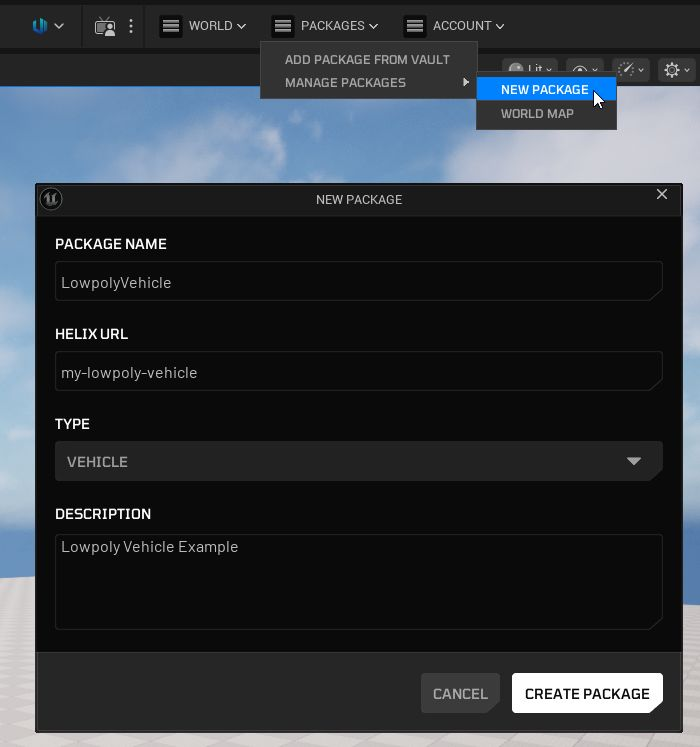
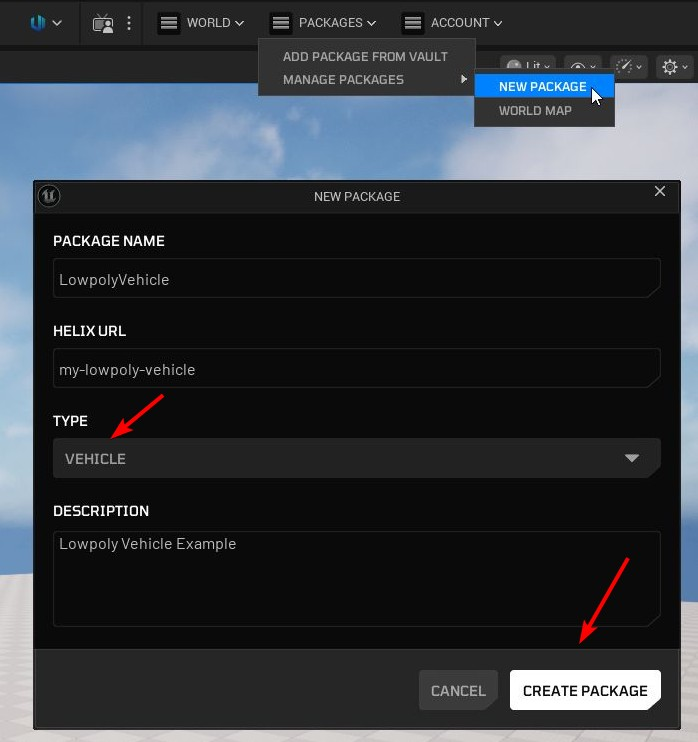
📝 docs(migration57): clarify steps, fix numbering, add troubleshooting note, update screenshots

diff --git a/docs/tutorials/migration57.md b/docs/tutorials/migration57.md
@@ -1,55 +1,77 @@
 # Unreal Engine 5.7 migration guide for Creator Kit users
 
->💡 This guide helps creators migrate their assets/projects from the now-deprecated **Creator Kit** into the new **HELIX Studio** (UE 5.7).
+>💡 This guide helps creators migrate their assets/projects from the now-deprecated **Creator Kit** (UE 5.5) into the new **HELIX Studio** (UE 5.7).
 
 Legacy packages created in the **Creator Kit** and published via **Creator Hub** are not compatible with **HELIX Game Client** builds that use Unreal Engine 5.7. Those packages must be converted to **HELIX Studio** projects and re-published to the Vault.
 
 Suggested steps to achieve this, using the default **Creator Kit** packages as an example:
 
-1. Create a **Blank** **HELIX Studio** project:
+1. Open HELIX Studio and create a **Blank** **HELIX Studio** project:
     
     ![image.jpg](MigrationImages/1.jpg)
-    
-2. Identify the package folders to migrate (**Content** subfolders and/or **Content Plugins**):
+
+2. Open Creator Kit using Unreal Engine 5.5 and identify the package folders to migrate (**Content** subfolders and/or **Content Plugins**):
     
     ![image.jpg](MigrationImages/2.jpg)
-    
-3. Open both the **Creator Kit** and **HELIX Studio** project folders in Windows Explorer, then copy the package folders to their corresponding places (**Content** Subfolders to Content, **Content Plugins** to **Plugins**):
+
+    ??? note "HELP! I'm struggling to find the right folders!"
+        If you are struggling to locate the folders, click on "Open Helix Packaging" menu at the top, access the package you need to check and click "Browse". This will show you the folder it's linked to.
+
+3. Open both the **Creator Kit** and **HELIX Studio** project folders in Windows Explorer, then copy the package folders to their corresponding places (**Content** Subfolders to **Content**, **Content Plugins** to **Plugins**):
     
     ![image.jpg](MigrationImages/3.jpg)
     
     ![image.jpg](MigrationImages/4.jpg)
     
 4. Restart **HELIX Studio**
-5. For Map packages:
-    - Move all assets except the **METADATA** folder and any **DAAL_*** data assets into the **WorldMap** Content Plugin:
+                 
+5. The next step is different depending on the package
+
+    1. For Map packages:
+
+        - Move all assets except the **METADATA** folder and any **DAAL_*** data assets into the **WorldMap** Content Plugin:
+            
+            ![image.jpg](MigrationImages/5.jpg)
         
-        ![image.jpg](MigrationImages/5.jpg)
+        <br>
+            
+        - If references get broken during migration, you will need to repair them manually. After that, click **Update Redirectors** and then Delete the remaining folder:
+            
+            ![image.jpg](MigrationImages/6.jpg)
+         
+        <br>
+           
+        - Open the **World Map** package properties and set your Level asset as the **Main Asset**:
+            
+            ![image.jpg](MigrationImages/7.jpg)
+         
+        <br>
+           
+        - Close properties, then **leave** the World and join it again:
+            
+            ![image.jpg](MigrationImages/8.jpg)
+         
+        <br>
+           
+        - The new level will be opened; you may now delete the default level asset (**L_WorldMap**)
+
+    2. For other packages:
+
+        - Create a new package of the corresponding package type:
+            ![image.jpg](MigrationImages/9.jpg)
         
-    - Verify and repair broken references, then **Update Redirectors** and **Delete** the remaining folder:
+        <br>
+
+        - Move all assets except the **METADATA** folder and any **DAAL_*** data assets into the created **Content Plugin**:
+
+            ![image.jpg](MigrationImages/10.jpg)
         
-        ![image.jpg](MigrationImages/6.jpg)
-        
-    - Open the **World Map** package properties and set your Level asset as the **Main Asset**:
-        
-        ![image.jpg](MigrationImages/7.jpg)
-        
-    - Save properties, then **Leave** the World and Join it again:
-        
-        ![image.jpg](MigrationImages/8.jpg)
-        
-    - The new level will be opened; you may now delete the default level asset (**L_WorldMap**)
-6. For other packages:
-    - Create a new package of the corresponding package type:
-        
-        ![image.jpg](MigrationImages/9.jpg)
-        
-    - Move all assets except the **METADATA** folder and any **DAAL_*** data assets into the created **Content Plugin**:
-        
-        ![image.jpg](MigrationImages/10.jpg)
-        
-    - Verify and repair broken references, then **Update Redirectors** and Delete the remaining folder:
-        
-        ![image.jpg](MigrationImages/11.jpg)
-        
-7. Test your migrated packages inside **HELIX Studio**, then publish them to the Vault following the [**HELIX** Studio User Guide](studio.md).
+        <br>  
+
+        - If references get broken during migration, you will need to repair them manually. After that, click **Update Redirectors** and then Delete the remaining folder:
+
+            ![image.jpg](MigrationImages/11.jpg)
+
+6. Test your migrated packages inside **HELIX Studio** ([refer to this guide](studio.md#testing-in-editor)).
+
+7. Publish the migrated & tested packages to the Vault following the [**HELIX** Studio User Guide](studio.md#publishing).
